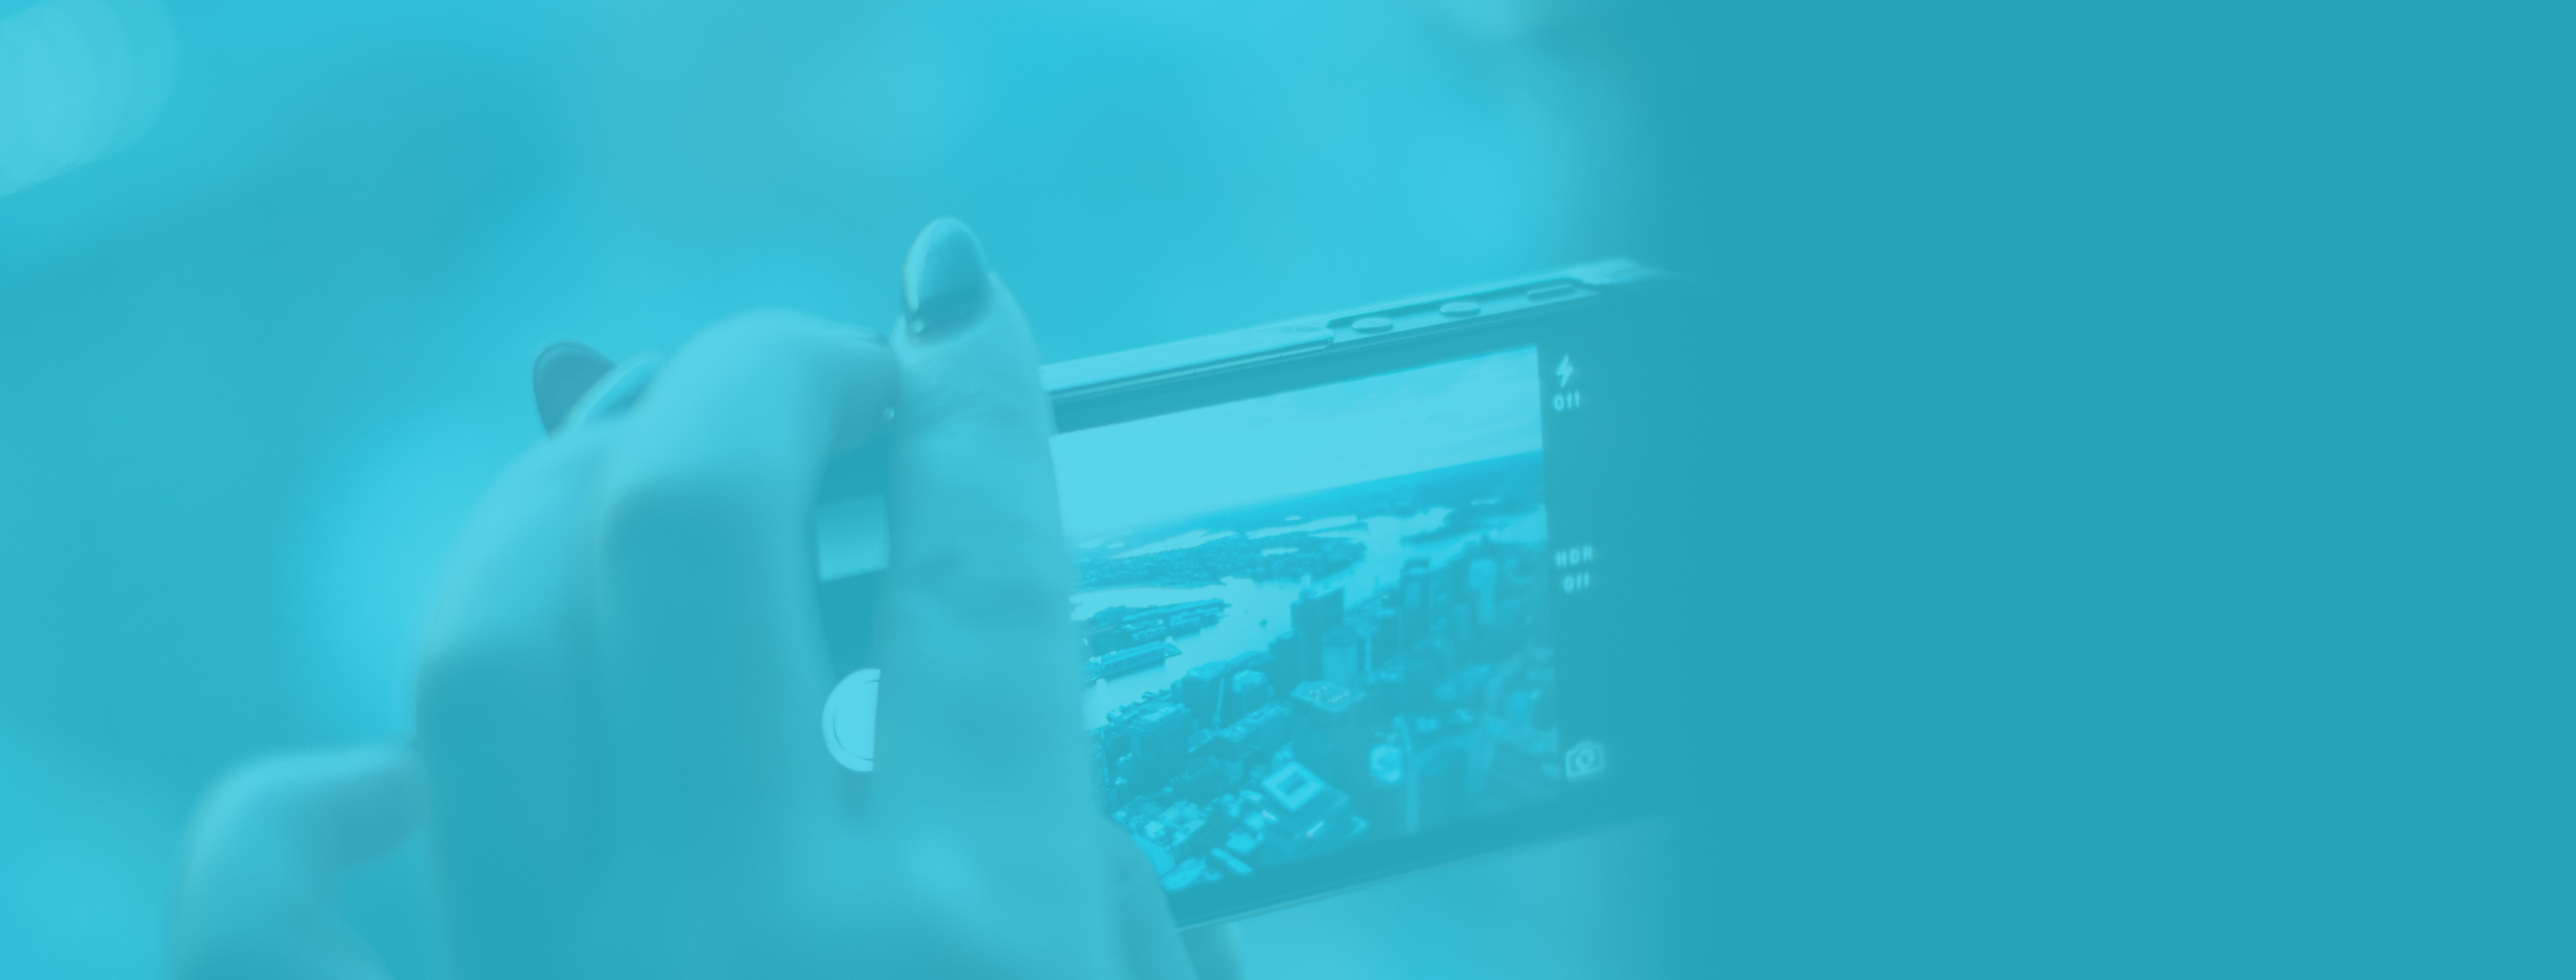
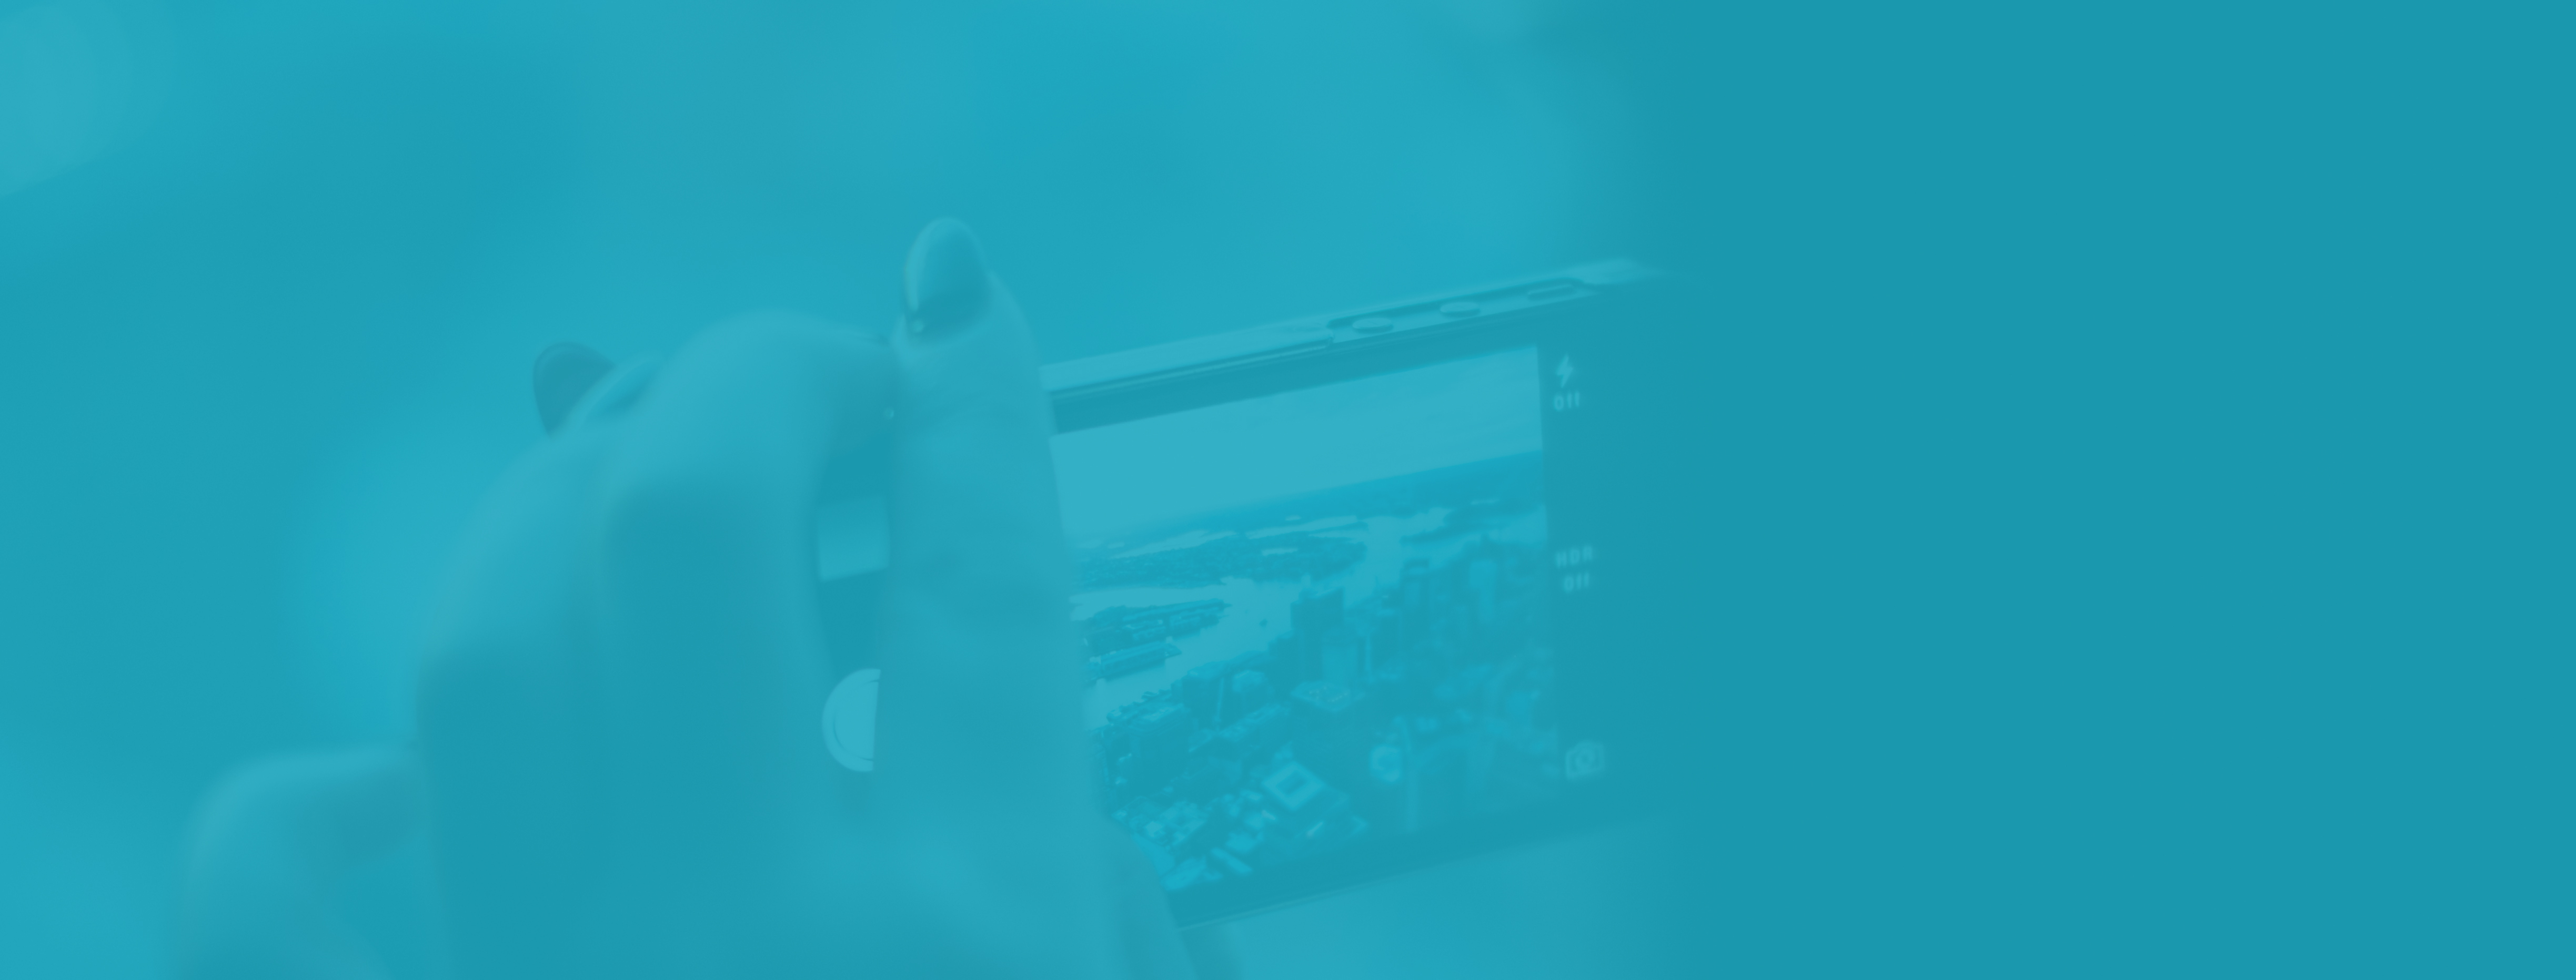
Changed all colors

diff --git a/css/style.css b/css/style.css
@@ -144,9 +144,7 @@ html, body {
 }
 
 .social {
-    background-image: url(../imgs/blur-camera-display-1980.jpg);
-    background-position: center;
-    background-size: cover;
+    background-color: #405952;
 }
 
 .social .slice {
@@ -192,6 +190,7 @@ html, body {
      text-align:center;   
 }
 
+
 /* SPLASH SECTION */
 /******************/
 .splash {
@@ -200,8 +199,7 @@ html, body {
     font-size: 6em;
     height: 100vh;
     text-align: center;  
-    background-image: url(../imgs/Untitled-1.gif);
-    background-size: cover;
+    background-color: #2E403B;
 }
 
 .splash h1 {
@@ -212,17 +210,11 @@ html, body {
     transform: rotate(-7deg);
 }
 
-/* ARTIST SECTION */
-/******************/
-.artists {
-    background-color: aquamarine;
-}
-
 
 /* ABOUT SECTION */
 /*****************/
 .about {
-    background-color: #399372;
+    background-color: #9C9B7A;
     color: white;
  
 }
@@ -230,15 +222,75 @@ html, body {
 /* MISSION SECTION */
 /*******************/
 .mission {
-    background-color: #ffc645;
+    background-color: #D4A16E;
     background-position: bottom;
+    color: white;
+}
+
+/* HELP SECTION */
+/****************/
+.help {
+    background-color: #FF974F;
+    color: white;
 }
 
 /* ARTIST SECTION */
 /******************/
+.artists {
+    background-color: #FF522A;
+    color: white;
+}
+
 .artists li {
-     list-style: none;
+    list-style: none;
     line-height: 17px;
+}
+
+/* HOVER */
+/*********/
+.hvr-float-shadow {
+  display: inline-block;
+  vertical-align: middle;
+  -webkit-transform: translateZ(0);
+  transform: translateZ(0);
+  box-shadow: 0 0 1px rgba(0, 0, 0, 0);
+  -webkit-backface-visibility: hidden;
+  backface-visibility: hidden;
+  -moz-osx-font-smoothing: grayscale;
+  position: relative;
+  -webkit-transition-duration: 0.3s;
+  transition-duration: 0.3s;
+  -webkit-transition-property: transform;
+  transition-property: transform;
+}
+.hvr-float-shadow:before {
+  pointer-events: none;
+  position: absolute;
+  z-index: -1;
+  content: '';
+  top: 100%;
+  left: 5%;
+  height: 10px;
+  width: 90%;
+  opacity: 0;
+  background: -webkit-radial-gradient(center, ellipse, rgba(0, 0, 0, 0.35) 0%, rgba(0, 0, 0, 0) 80%);
+  background: radial-gradient(ellipse at center, rgba(0, 0, 0, 0.35) 0%, rgba(0, 0, 0, 0) 80%);
+  /* W3C */
+  -webkit-transition-duration: 0.3s;
+  transition-duration: 0.3s;
+  -webkit-transition-property: transform, opacity;
+  transition-property: transform, opacity;
+}
+.hvr-float-shadow:hover, .hvr-float-shadow:focus, .hvr-float-shadow:active {
+  -webkit-transform: translateY(-5px);
+  transform: translateY(-5px);
+  /* move the element up by 5px */
+}
+.hvr-float-shadow:hover:before, .hvr-float-shadow:focus:before, .hvr-float-shadow:active:before {
+  opacity: 1;
+  -webkit-transform: translateY(5px);
+  transform: translateY(5px);
+  /* move the element down by 5px (it will stay in place because it's attached to the element that also moves up 5px) */
 }
 
 
